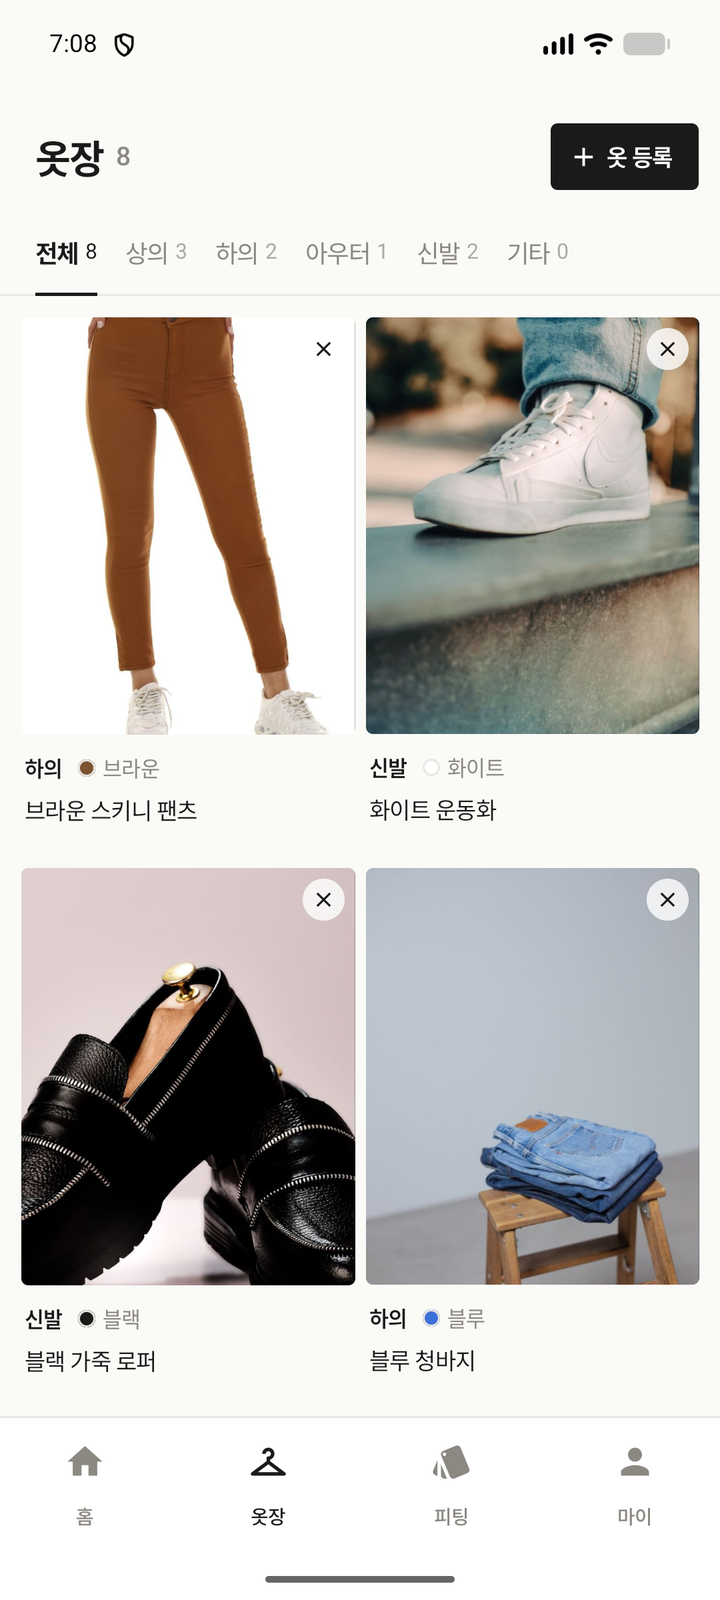
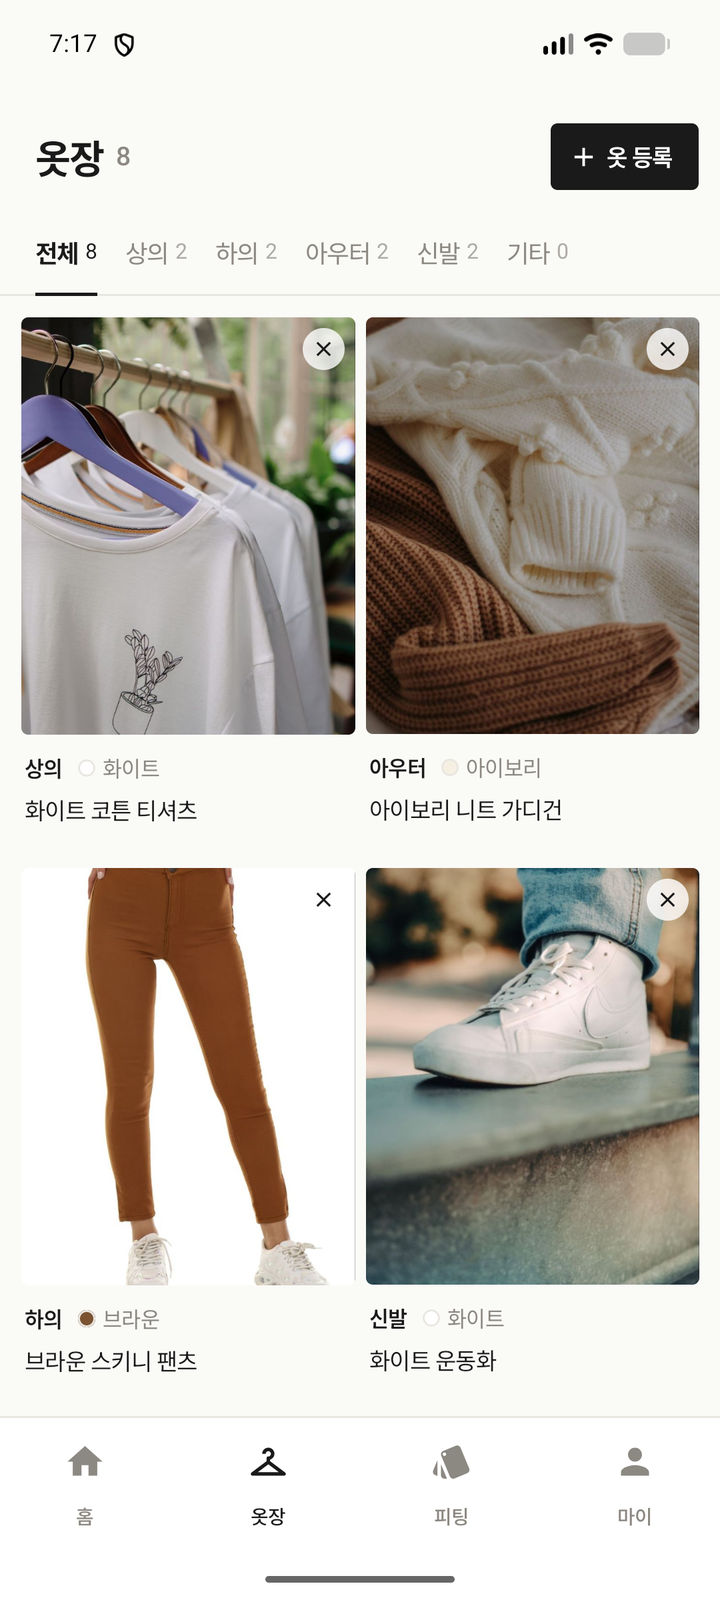
docs: replace personal closet photos with stock samples, label screenshots as examples

diff --git a/docs/screenshots/CREDITS.md b/docs/screenshots/CREDITS.md
@@ -11,8 +11,10 @@ README 스크린샷(`wearon-*.png`)에 쓰인 스톡 사진의 출처입니다. 
 
 ## 옷장·홈 화면 (`wearon-closet.png`, `wearon-home.png`)
 
-옷장에 등록한 샘플 옷입니다. 이 외에 옷장의 상의 2벌은 직접 촬영한 사진입니다.
+옷장에 등록한 샘플 옷 8벌입니다.
 
+- 흰 코튼 티셔츠 — "t-shirt on hanger" — Photo by Berna on Pexels — https://www.pexels.com/photo/minimalist-plant-design-t-shirts-on-wooden-hangers-31995223/
+- 니트 스웨터(카디건으로 분류됨) — "knit sweater folded" — Photo by Nati on Pexels — https://www.pexels.com/photo/a-close-up-shot-of-a-knitted-clothing-14642651/
 - 흰 티셔츠 — "plain t-shirt product" — Photo by dayong tien on Pexels — https://www.pexels.com/photo/white-t-shirt-hanging-on-a-hanger-18257675/
 - 가죽 재킷 — "jacket on hanger" — Photo by Daniel Maurício Bertoli on Pexels — https://www.pexels.com/photo/black-leather-jacket-on-hangers-in-closet-37595197/
 - 갈색 팬츠 — "slacks trousers clothing" — Photo by Engin Akyurt on Pexels — https://www.pexels.com/photo/stylish-brown-trousers-on-white-background-39457749/

diff --git a/README.md b/README.md
@@ -13,6 +13,8 @@
 |:---:|:---:|:---:|:---:|
 | <img src="docs/screenshots/wearon-home.png" width="200"/> | <img src="docs/screenshots/wearon-closet.png" width="200"/> | <img src="docs/screenshots/wearon-fitting.png" width="200"/> | <img src="docs/screenshots/wearon-my.png" width="200"/> |
 
+> 스크린샷의 모델·옷 사진은 **예시 이미지(스톡 사진, Pexels)**이며 출처는 [`docs/screenshots/CREDITS.md`](docs/screenshots/CREDITS.md)에 있습니다. 피팅 화면의 결과 이미지는 IDM-VTON이 합성한 것입니다.
+
 ---
 
 ## 목차
